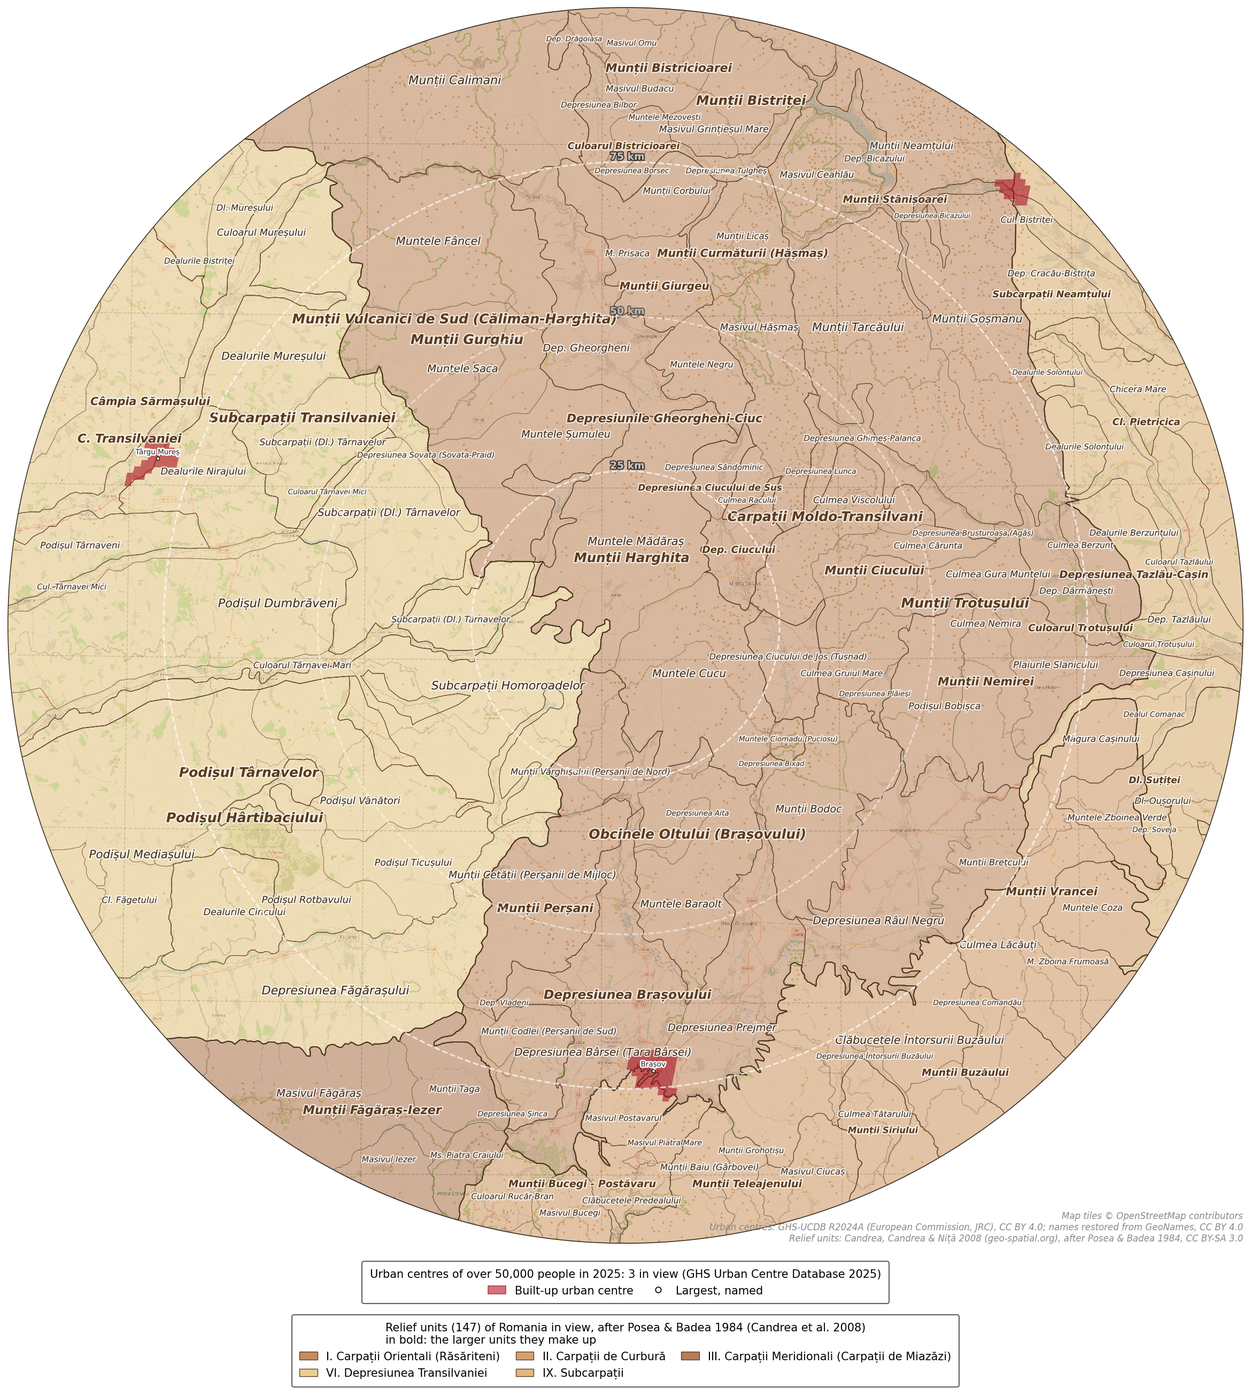
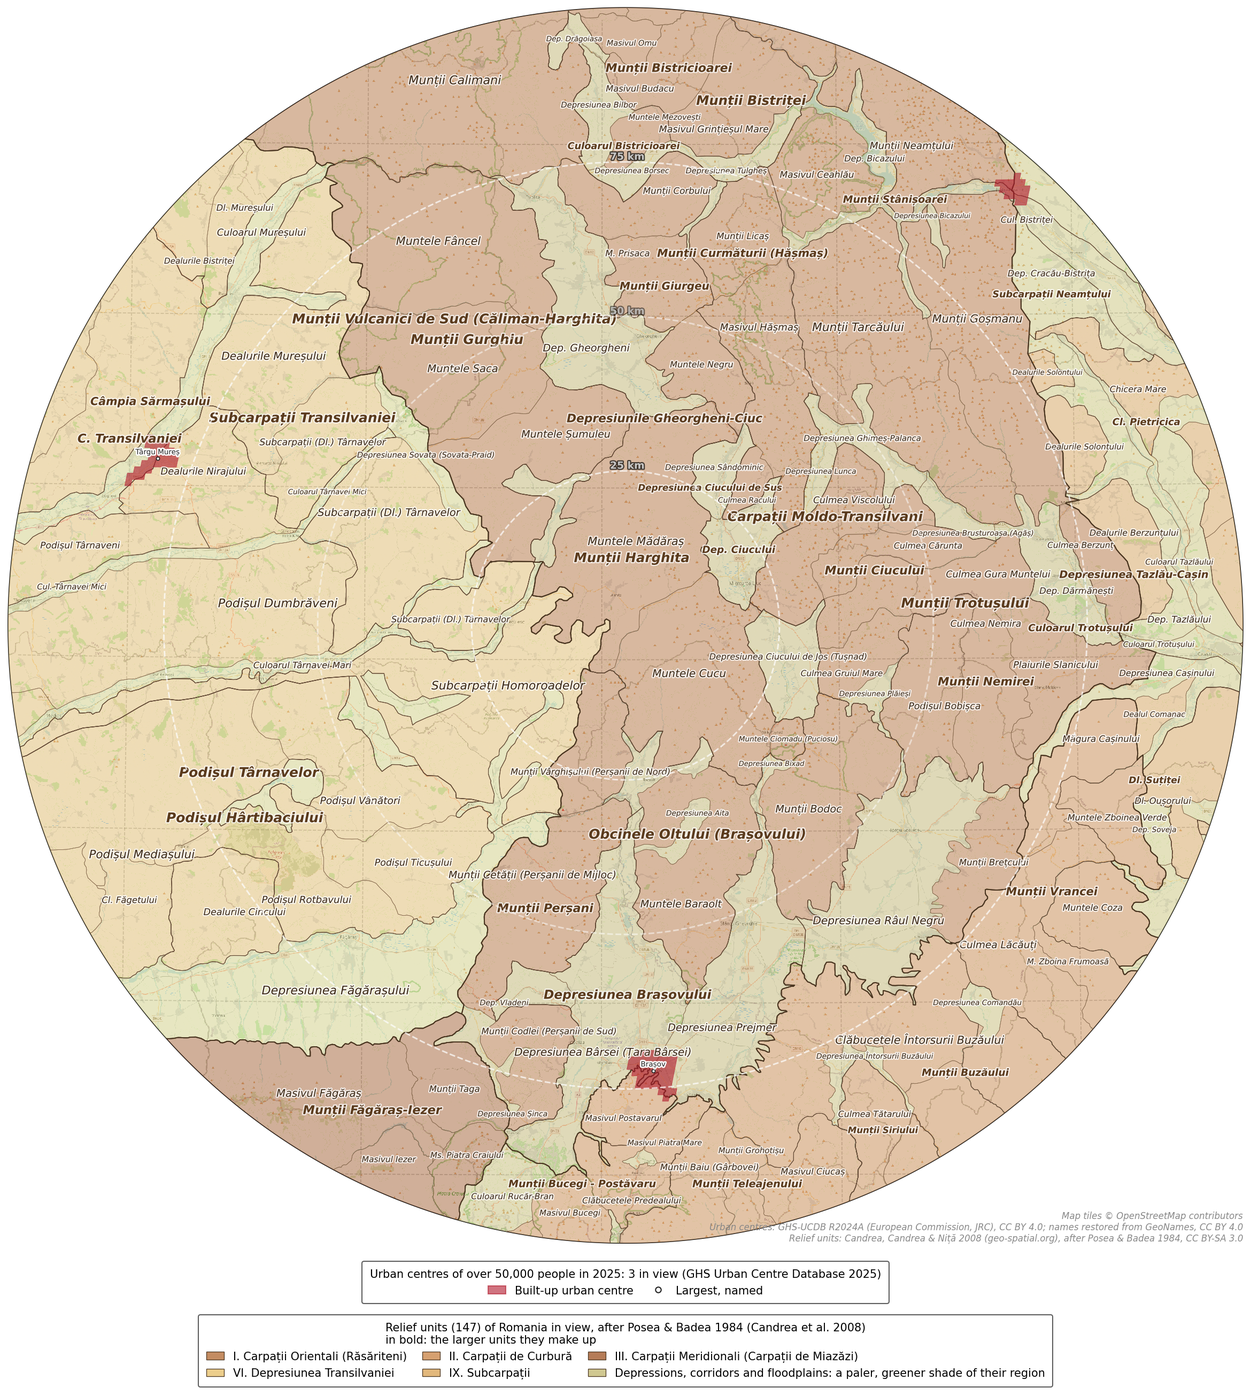
feat: shade Romania's depressions, corridors and floodplains paler than their mountains (#3)
* feat: shade Romania's depressions, corridors and floodplains paler than their mountains

Relief units were filled only by major region, so Depresiunea Hațegului was
the same brown as the Retezat beside it. A unit whose kind is Depresiunea,
Culoarul, Lunca or Balta (from its name, or its legend entry when the name has
none, and including the 52 unnamed depressions) is now filled in its region's
colour taken two-thirds of the way toward a pale green-yellow, so low ground
stands out while the regions stay told apart. The regions view cuts the same
low ground out of each region's fill. The key adds one entry for it.

The kind is stored in the cache, whose version goes to 3, so the relief units
are downloaded and read again once.

Claude-Session: https://claude.ai/code/session_01QS8Z2Pzik8SVR2jvfTgVyp

* fix: tell low ground by the map's names alone, and correct the unnamed count

On the real data the legend never named a kind the map's name lacked: the
six units whose name starts with no kind (Bistrița Bârgăului, Valea Ianca …)
have no low-ground entry in the legend, so the fallback to it is dropped,
with its made-up example. 289 of the 820 units are low ground.

The 52 units without a name of their own are 50 depressions and 2 hills
("Deal"), not 52 depressions; the docs say so. The README's samples of
Romania's relief are drawn again with the paler low ground.

---------

diff --git a/relief.py b/relief.py
@@ -17,13 +17,18 @@ its legend, an Excel sheet (~90 KB), has them, and the names are restored from
 it: each unit's name without its first word (Depresiunea, Câmpia …) is matched
 against the legend's, ignoring accents, and the rest word by word. ``î`` inside
 a word becomes ``â`` and ş, ţ take the comma below, as written since 1993. 52
-small units have no name of their own (``Depresiune``) and are drawn unnamed.
+small units have no name of their own (50 ``Depresiune``, 2 ``Deal``) and are
+drawn unnamed.
 
 The legend also tells which units make up which larger ones: Câmpia Careiului
 is Câmpia Valea lui Mihai and Câmpia Pișcolțului, and with Câmpia Ierului and
 others it makes up Câmpia Someșului. The map has only the smallest units, so
 each larger one is drawn as the outline of the units the legend puts in it and
 named in bold. Both files are downloaded once and cached in a compact form.
+
+The low ground inside the mountains and hills, the depressions, corridors and
+floodplains (Depresiunea, Culoarul, Lunca …), is told by the kind its name
+begins with and drawn in a paler, greener shade of its region's colour.
 """
 
 from __future__ import annotations
@@ -60,7 +65,7 @@ logger = logging.getLogger(__name__)
 
 SHAPES_URL = "https://geo-spatial.org/vechi/file_download/24263"    # the shapefile in degrees (WGS 84), zipped
 LEGEND_URL = "https://geo-spatial.org/vechi/file_download/24264"    # its legend, an MS Excel sheet
-DATA_VERSION = 2          # bump when the cache changes, so old ones are rebuilt
+DATA_VERSION = 3          # bump when the cache changes, so old ones are rebuilt
 
 RELIEF_ATTRIBUTION = ("Relief units: Candrea, Candrea & Niță 2008 (geo-spatial.org), after Posea & Badea 1984, "
                       "CC BY-SA 3.0")
@@ -81,6 +86,10 @@ REGION_COLOURS: dict[str, tuple[int, int, int]] = {
     "XVI": (160, 206, 192),
 }
 OTHER_COLOUR = (220, 220, 210)
+# Depressions, corridors and floodplains: their region's colour, this far toward the green-yellow of low ground
+LOW_KINDS = frozenset({"Depresiunea", "Depresiunile", "Culoarul", "Culoarele", "Lunca", "Balta"})
+LOW_GROUND = (214, 232, 170)
+LOW_BLEND = 0.65
 UNIT_EDGE = "#7a5c40"
 GROUP_EDGE = "#5e4430"
 REGION_EDGE = "#4a3520"
@@ -128,6 +137,7 @@ class Unit(NamedTuple):
     name: str           # "" for a unit without a name of its own
     region: str         # Roman numeral of its major region ("I" … "XVI")
     outline: shapely.Geometry
+    low: bool = False   # a depression, corridor or floodplain (see LOW_KINDS)
 
 
 class Relief(NamedTuple):
@@ -137,6 +147,7 @@ class Relief(NamedTuple):
     regions: dict[str, str]         # "I" -> "Carpații Orientali (Răsăriteni)"
     borders: Sequence[shapely.Geometry]  # the outline of each major region, drawn over the units
     groups: Sequence[Unit] = ()     # the larger units the smallest make up (Câmpia Careiului), largest first
+    low: Sequence[Unit] = ()        # at the level of regions, the depressions, corridors and floodplains in them
 
 
 def resolve_relief_level(level: str | None) -> str:
@@ -256,6 +267,13 @@ def restore_name(raw: str, legend: Key) -> str:
     return f"{kind} {rest}" if kind else rest
 
 
+def unit_kind(raw: str) -> str:
+    """The kind of relief unit, in full, that the shapefile's name *raw* begins with (``Depresiunea``); ``""``
+    for the few names that begin with none (``Bistrita Bargaului``, ``Valea Ianca``)."""
+    kind = split_kind(raw)[0]
+    return GENERIC.get(_fold(kind), kind) if kind else ""
+
+
 def group_name(name: str) -> str:
     """The legend's *name* of a group of units with its kind in full: ``Dep.-le Gheorgheni-Ciuc`` →
     ``Depresiunile Gheorgheni-Ciuc``; ``Dl.`` stays short, being Dealul or Dealurile."""
@@ -299,7 +317,7 @@ def read_units(shapes_zip: bytes, legend: Key) -> dict[str, np.ndarray]:
             raise ReliefError("The relief units' archive holds no shapefile")
         files = {ext: io.BytesIO(archive.read(members[ext])) for ext in (".shp", ".shx", ".dbf")}
     reader = shapefile.Reader(shp=files[".shp"], shx=files[".shx"], dbf=files[".dbf"], encoding="iso8859_16")
-    names, regions, outlines, paths = [], [], [], []
+    names, regions, outlines, paths, low = [], [], [], [], []
     for item in reader.iterShapeRecords():
         if item.shape is None or item.record is None:
             continue
@@ -313,13 +331,15 @@ def read_units(shapes_zip: bytes, legend: Key) -> dict[str, np.ndarray]:
         outlines.append(outline)
         entry = find_entry(raw, region, str(row["SUBREGIUNE"] or "").strip(), legend)
         paths.append((region, entry.path) if entry else None)
+        low.append(unit_kind(raw) in LOW_KINDS)
     if not outlines:
         raise ReliefError("The relief units' shapefile is empty")
     groups = unit_groups(paths)
     group_outlines = [shapely.union_all([outlines[i] for i in units], grid_size=1e-6) for units in groups.values()]
     packed = _pack(group_outlines)
     codes = sorted(legend.regions)
-    return {"names": np.array(names), "regions": np.array(regions), "region_codes": np.array(codes),
+    return {"names": np.array(names), "regions": np.array(regions), "low": np.array(low, dtype=bool),
+            "region_codes": np.array(codes),
             "region_names": np.array([legend.regions[c] for c in codes]), **_pack(outlines),
             "group_names": np.array([group_name(path[-1]) for _, path in groups], dtype=str),
             "group_regions": np.array([region for region, _ in groups], dtype=str),
@@ -386,16 +406,20 @@ def load_relief(level: str = DEFAULT_LEVEL, cache_dir: str | None = None) -> Rel
         by_region[str(code)].append(outline)
     borders = [shapely.union_all(parts, grid_size=1e-6) for parts in by_region.values()]
     groups: list[Unit] = []
+    every = [Unit(str(n), str(r), o, bool(k))
+             for n, r, o, k in zip(table["names"], table["regions"], outlines, table["low"])]
+    low: list[Unit] = []
     if level == "regions":
         units = [Unit(regions.get(code, ""), code, border) for code, border in zip(by_region, borders)]
+        low = [u for u in every if u.low]
     else:
-        units = [Unit(str(n), str(r), o) for n, r, o in zip(table["names"], table["regions"], outlines)]
+        units = every
         group_outlines = _unpack({"wkb": table["group_wkb"], "wkb_ends": table["group_wkb_ends"]})
         groups = [Unit(str(n), str(r), o)
                   for n, r, o in zip(table["group_names"], table["group_regions"], group_outlines)]
         groups.sort(key=lambda u: float(shapely.area(u.outline)), reverse=True)
     units.sort(key=lambda u: float(shapely.area(u.outline)), reverse=True)
-    return Relief(level, units, regions, borders, groups)
+    return Relief(level, units, regions, borders, groups, low)
 
 
 # ---------------------------------------------------------------------------
@@ -403,9 +427,13 @@ def load_relief(level: str = DEFAULT_LEVEL, cache_dir: str | None = None) -> Rel
 # ---------------------------------------------------------------------------
 
 
-def region_colour(code: str) -> tuple[float, float, float]:
-    r, g, b = REGION_COLOURS.get(code, OTHER_COLOUR)
-    return r / 255, g / 255, b / 255
+def region_colour(code: str, low: bool = False) -> tuple[float, float, float]:
+    """The colour of region *code*, or with *low* of its depressions, corridors and floodplains."""
+    rgb = np.array(REGION_COLOURS.get(code, OTHER_COLOUR), float)
+    if low:
+        rgb += LOW_BLEND * (np.array(LOW_GROUND, float) - rgb)
+    r, g, b = rgb / 255
+    return float(r), float(g), float(b)
 
 
 def visible_units(ax: GeoAxes, units: Sequence[Unit], samples: int = 300) -> dict[int, np.ndarray]:
@@ -451,11 +479,20 @@ def draw_relief(ax: GeoAxes, relief: Relief, alpha: float = 0.55, labels: bool =
     does not fit; the groups' names are bold. Returns how many sample points
     each unit covers (index into ``relief.units``).
     """
-    by_colour: defaultdict[str, list[shapely.Geometry]] = defaultdict(list)
+    # Each unit in its region's colour, its low ground paler; a region's own fill leaves out the low ground in it
+    by_colour: defaultdict[tuple[str, bool], list[shapely.Geometry]] = defaultdict(list)
+    low_in: defaultdict[str, list[shapely.Geometry]] = defaultdict(list)
+    for unit in relief.low:
+        low_in[unit.region].append(unit.outline)
+        by_colour[(unit.region, True)].append(unit.outline)
     for unit in relief.units:
-        by_colour[unit.region].append(unit.outline)
-    for code, outlines in by_colour.items():
-        ax.add_geometries(outlines, crs=ccrs.PlateCarree(), facecolor=(*region_colour(code), alpha),
+        outline = unit.outline
+        if low_in.get(unit.region):
+            outline = shapely.difference(outline, shapely.union_all(low_in[unit.region], grid_size=1e-6),
+                                         grid_size=1e-6)
+        by_colour[(unit.region, unit.low)].append(outline)
+    for (code, low), outlines in by_colour.items():
+        ax.add_geometries(outlines, crs=ccrs.PlateCarree(), facecolor=(*region_colour(code, low), alpha),
                           edgecolor="none", zorder=5)
     if relief.level == "units":
         ax.add_geometries([u.outline for u in relief.units], crs=ccrs.PlateCarree(), facecolor="none",
@@ -518,18 +555,28 @@ def _points_to_data(ax: GeoAxes, points: float) -> float:
 
 def add_relief_legend(ax: GeoAxes, relief: Relief, counts: Iterable[dict[int, int]],
                       y: float = -0.01, x: float = 0.5) -> Legend | None:
-    """A key to the major regions on the map, in their colours, largest first. ``None`` when none shows."""
+    """A key to the major regions on the map, in their colours, largest first, and to their low ground when
+    some shows. ``None`` when none shows."""
     shares: Counter[str] = Counter()
     units: Counter[str] = Counter()
+    low: Counter[str] = Counter()           # the low ground in view, by region
     for per_globe in counts:
         for i, n in per_globe.items():
             shares[relief.units[i].region] += n
             units[relief.units[i].region] += 1
+            if relief.units[i].low:
+                low[relief.units[i].region] += n
     if not shares:
         return None
+    for i, points in (visible_units(ax, relief.low) if relief.low else {}).items():
+        low[relief.low[i].region] += len(points)
     top = [code for code, _ in shares.most_common()]
     handles = [mpatches.Patch(facecolor=region_colour(c), edgecolor=REGION_EDGE, linewidth=0.6) for c in top]
     labels = [f"{c}. {relief.regions.get(c, c)}" for c in top]
+    if low:
+        handles.append(mpatches.Patch(facecolor=region_colour(low.most_common(1)[0][0], low=True),
+                                      edgecolor=REGION_EDGE, linewidth=0.6))
+        labels.append("Depressions, corridors and floodplains: a paler, greener shade of their region")
     what = "Major relief regions" if relief.level == "regions" else f"Relief units ({sum(units.values()):,})"
     title = f"{what} of Romania in view, after Posea & Badea 1984 (Candrea et al. 2008)"
     if relief.groups:

diff --git a/tests/test_relief.py b/tests/test_relief.py
@@ -4,6 +4,7 @@ import io
 import os
 import zipfile
 from typing import Any
+from unittest import mock
 
 import numpy as np
 import pytest
@@ -111,6 +112,14 @@ class TestNames:
     def test_group_names(self, name, full):
         assert rl.group_name(name) == full
 
+    @pytest.mark.parametrize("raw, kind", [
+        ("Depresiunea Hategului", "Depresiunea"), ("Depresiune", "Depresiunea"), ("Depr. Poiana", "Depresiunea"),
+        ("Culoarul  Târnavei Mici", "Culoarul"), ("Lunca Jiu - Jiet", "Lunca"), ("Muntii Oasului", "Munții"),
+        ("Bistrita Bargaului", ""),
+    ])
+    def test_kind(self, raw, kind):
+        assert rl.unit_kind(raw) == kind
+
     def test_entry_found_by_name_and_subregion(self):
         legend = rl.legend_from_rows(ROWS + [["", "", "C", "Câmpia Banatului", "", "", "2.", "C. Ierului"]])
         assert rl.find_entry("Câmpia Ierului", "XIII", "A", legend) == rl.Entry("A", ("Câmpia Someșului",
@@ -176,6 +185,7 @@ class TestData:
         assert dict(zip(table["region_codes"], table["region_names"]))["XIII"] == "Câmpia Banato-Crișană"
         outlines = rl._unpack(table)
         assert outlines[1].bounds == pytest.approx((21.9, 47.3, 22.5, 47.5))
+        assert table["low"].tolist() == [True, False, True, False, False]      # the two depressions
 
     def test_archive_without_shapefile(self):
         out = io.BytesIO()
@@ -204,6 +214,7 @@ class TestData:
                                                  "Câmpia Valea lui Mihai", "Câmpia Pișcolțului", ""]
         assert units.level == "units" and len(units.borders) == 2
         assert [g.name for g in units.groups] == ["Câmpia Someșului", "Câmpia Careiului"]   # largest first
+        assert [u.low for u in units.units] == [False, True, False, False, True] and not units.low
         rl.load_relief("regions", str(tmp_path))
         assert geo_spatial == [rl.SHAPES_URL, rl.LEGEND_URL]                    # cached
         assert sorted(os.listdir(tmp_path)) == [f"relief_units_v{rl.DATA_VERSION}.npz"]   # downloads removed
@@ -214,6 +225,8 @@ class TestData:
             ("XIII", "Câmpia Banato-Crișană"), ("III", "Carpații Meridionali (Carpații de Miazăzi)")]
         assert regions.units[1].outline.area == pytest.approx(0.4 * 0.2 + 0.1 * 0.1)   # both units of III
         assert not regions.groups
+        assert sorted(u.name for u in regions.low) == ["", "Depresiunea Hațegului (Țara Hațegului)"]
+        assert all(u.low and u.region == "III" for u in regions.low)
 
     def test_unreachable(self, tmp_path, monkeypatch):
         def offline(url, dest, timeout=120, label=""):
@@ -268,6 +281,43 @@ class TestDrawing:
         legend = rl.add_relief_legend(ax, relief, [counts])
         assert legend is not None and legend.get_title().get_text().endswith(
             "\nin bold: the larger units they make up")
+
+    def test_low_ground_paler_and_greener(self):
+        mountain, low = rl.region_colour("I"), rl.region_colour("I", low=True)
+        assert low != mountain and low[1] > mountain[1] and sum(low) > sum(mountain)
+        assert rl.region_colour("III", low=True) != low                        # still told apart by region
+
+    def test_low_ground_drawn_and_keyed(self):
+        ax = _globe()
+        units = [rl.Unit("Munții Ciucului", "I", shapely.box(24, 45, 27, 48)),
+                 rl.Unit("Depresiunea Ciucului", "I", shapely.box(25, 46, 26, 47), low=True)]
+        relief = rl.Relief("units", units, {"I": "Carpații Orientali"}, [shapely.box(24, 45, 27, 48)])
+        counts = rl.draw_relief(ax, relief)
+        fills = {tuple(np.round(c.get_facecolor()[0][:3], 4)) for c in ax.collections
+                 if len(c.get_facecolor()) and c.get_facecolor()[0][3] > 0}
+        assert fills == {tuple(np.round(rl.region_colour("I"), 4)), tuple(np.round(rl.region_colour("I", True), 4))}
+        legend = rl.add_relief_legend(ax, relief, [counts])
+        assert legend is not None
+        assert [t.get_text() for t in legend.get_texts()][-1].startswith("Depressions, corridors and floodplains")
+
+    def test_no_low_ground_no_key_entry(self):
+        ax = _globe()
+        legend = rl.add_relief_legend(ax, _relief(), [rl.draw_relief(ax, _relief())])
+        assert legend is not None and len(legend.get_texts()) == 2
+
+    def test_low_ground_cut_out_of_the_regions(self):
+        ax = _globe()
+        hollow = rl.Unit("Depresiunea Ciucului", "I", shapely.box(25, 46, 26, 47), low=True)
+        relief = rl.Relief("regions", [rl.Unit("Carpații Orientali", "I", shapely.box(24, 45, 27, 48))],
+                           {"I": "Carpații Orientali"}, [shapely.box(24, 45, 27, 48)], low=[hollow])
+        with mock.patch.object(ax, "add_geometries", wraps=ax.add_geometries) as added:
+            counts = rl.draw_relief(ax, relief)
+        filled = {kwargs["facecolor"][:3]: shapely.union_all(list(geoms)) for (geoms,), kwargs in
+                  ((call.args, call.kwargs) for call in added.call_args_list) if kwargs["facecolor"] != "none"}
+        assert filled[rl.region_colour("I")].area == pytest.approx(9 - 1)      # the region without its depression
+        assert filled[rl.region_colour("I", True)].area == pytest.approx(1)
+        legend = rl.add_relief_legend(ax, relief, [counts])
+        assert legend is not None and len(legend.get_texts()) == 2
 
     def test_regions_key(self):
         ax = _globe()

diff --git a/ortho.py b/ortho.py
@@ -1119,7 +1119,8 @@ def generate_orthographic_map(
         comma-separated.
     relief_units : str, optional
         Draw Romania's relief units (Posea & Badea 1984, mapped by Candrea
-        et al. 2008), filled in the colour of their major region and named:
+        et al. 2008), filled in the colour of their major region (paler for
+        depressions, corridors and floodplains) and named:
         ``"units"`` for all 820, from the Carpathians to single depressions
         and plains, or ``"regions"`` for the 16 major regions (see
         :data:`relief.LEVELS`); *relief_alpha* sets the fill's opacity.
@@ -2974,7 +2975,8 @@ def build_cli_parser() -> argparse.ArgumentParser:
 
     landforms = parser.add_argument_group("Relief units of Romania (Posea & Badea 1984, geo-spatial.org)")
     landforms.add_argument("--relief-units", nargs="?", const="units", metavar="LEVEL",
-                           help="Draw Romania's relief units, filled in the colour of their major region and "
+                           help="Draw Romania's relief units, filled in the colour of their major region "
+                                "(paler for depressions, corridors and floodplains) and "
                                 "named: units (all 820, down to single depressions, corridors and plains; the "
                                 "default) or regions (the 16 major ones). "
                                 "Downloaded once (~1.4 MB).")

diff --git a/README.md b/README.md
@@ -266,7 +266,7 @@ The main script is [ortho.py](ortho.py).
 - Optional ports: 2,065 seaports as dots sized by the ships calling a year (2019–2025), of every kind or only container ships, tankers, bulk carriers, general cargo or ro-ro ships, the busiest named
 - Night lights: NASA's Black Marble, the Earth at night, as a base map
 - Optional air routes: the airline network, or the routes from chosen airports or of chosen airlines, as great-circle arcs wider for routes more airlines fly
-- Optional relief units of Romania: its 820 geomorphological units (Posea & Badea), from the Carpathians to single depressions and plains such as Depresiunea Hațegului or Câmpia Ierului, filled in their major region's colour and named, or the 16 major regions alone
+- Optional relief units of Romania: its 820 geomorphological units (Posea & Badea), from the Carpathians to single depressions and plains such as Depresiunea Hațegului or Câmpia Ierului, filled in their major region's colour (depressions, corridors and floodplains paler) and named, or the 16 major regions alone
 - Optional historical borders for any year from 3400 BCE to 2024 (Cliopatria), or any day from 1886 to 2019 with every colony in its ruler's colour (CShapes 2.0): states filled, outlined and named, with a key
 - Optional soil overlay: the most probable of 30 World Reference Base soil groups (SoilGrids 2.0), for all groups or only chosen ones
 - Optional soil property overlay at a chosen depth: pH, organic carbon, clay, sand, silt, nitrogen and more (SoilGrids 2.0)
@@ -1491,6 +1491,17 @@ python ortho.py --lat 46.3 --lon 25.55 --radius 100 --provider osm_plain --relie
   the Delta blue-green. The major regions are outlined more boldly. `regions`
   draws and names only those 16 (Carpații Orientali, Depresiunea
   Transilvaniei, Câmpia Română …).
+- **Depressions, corridors and floodplains** stand out from the mountains
+  and hills around them: every unit that is a *Depresiunea*, *Culoarul*,
+  *Lunca* or *Balta* is filled in its region's colour taken two-thirds of
+  the way toward a pale green-yellow, so Depresiunea Hațegului reads lower
+  than the Retezat beside it and the Eastern Carpathians' depressions still
+  differ from the Southern Carpathians'. The kind is the first word of the
+  unit's name, so the 50 depressions without a name of their own count too;
+  289 of the 820 units are low ground. `regions` shades the same low ground
+  inside each region, without outlining or naming it. The key adds one entry
+  for it. The six units whose name starts with no kind (Bistrița Bârgăului,
+  Valea Ianca …) keep their region's colour.
 - **Groups.** The map has only the smallest units; the legend says which make
   up which larger ones, and 201 of those are drawn as the outline of their
   units and named in bold: Câmpia Careiului over its two halves, beside
@@ -1504,9 +1515,10 @@ python ortho.py --lat 46.3 --lon 25.55 --radius 100 --provider osm_plain --relie
   where the full name does not fit it is tried without the other name in
   brackets, then with its kind shortened as Romanian maps do (`Dep.
   Hațegului`, `M-ții Rodnei`). They fit around the names of cities, plants and
-  ports. 52 small units have no name of their own in the map (e.g. the
-  depression around Odorheiu Secuiesc lies within *Subcarpații Homoroadelor*)
-  and are drawn unnamed. The key lists the major regions in view.
+  ports. 52 small units have no name of their own in the map, 50
+  depressions and 2 hills (e.g. the depression around Odorheiu Secuiesc lies
+  within *Subcarpații Homoroadelor*), and are drawn unnamed. The key lists
+  the major regions in view.
 - **Diacritics.** The shapefile lost most of its diacritics (`Podisul
   Tîrnaveni`); its legend, an Excel sheet, kept them, and the names are
   restored from it: 713 of the 768 named units by matching the name without
